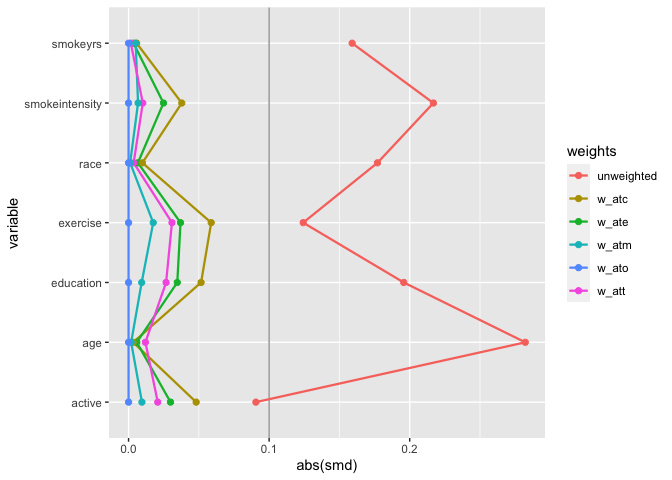
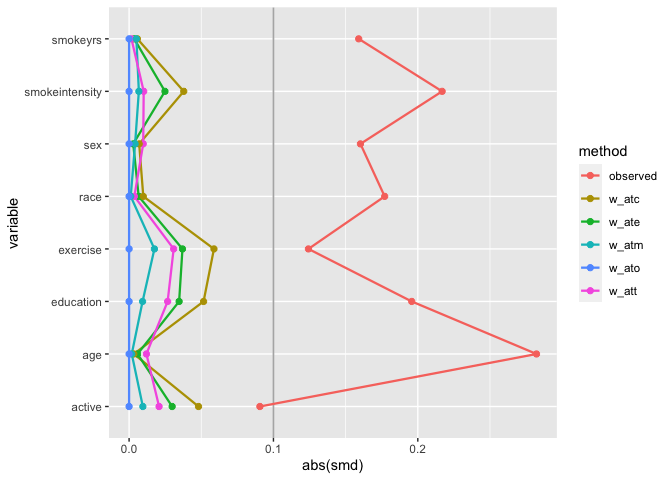
add better support for matching via tidysmd

diff --git a/README.md b/README.md
@@ -26,7 +26,7 @@ You can install the development version of halfmoon from
 devtools::install_github("malcolmbarrett/halfmoon")
 ```
 
-## Example
+## Example: Weighting
 
 halfmoon includes several techniques for assessing the balance created
 by propensity score weights.
@@ -79,11 +79,105 @@ ggplot(
   aes(
     x = abs(smd),
     y = variable,
-    group = weights,
-    color = weights
+    group = method,
+    color = method
   )
 ) +
   geom_love()
 ```
 
 <img src="man/figures/README-example-3.png" width="100%" />
+
+## Example: Matching
+
+halfmoon also has support for working with matched datasets. Consider
+these two objects from the
+[MatchIt](https://github.com/kosukeimai/MatchIt) documentation:
+
+``` r
+library(MatchIt)
+# Default: 1:1 NN PS matching w/o replacement
+m.out1 <- matchit(treat ~ age + educ + race + nodegree +
+                   married + re74 + re75, data = lalonde)
+
+# 1:1 NN Mahalanobis distance matching w/ replacement and
+# exact matching on married and race
+m.out2 <- matchit(treat ~ age + educ + race + nodegree +
+                   married + re74 + re75, data = lalonde,
+                   distance = "mahalanobis", replace = TRUE,
+                  exact = ~ married + race)
+```
+
+One option is to just look at the matched dataset with halfmoon:
+
+``` r
+matched_data <- get_matches(m.out1)
+
+match_smd <- tidy_smd(
+  matched_data,
+  c(age, educ, race, nodegree, married, re74, re75), 
+  .group = treat
+)
+
+love_plot(match_smd)
+```
+
+<img src="man/figures/README-unnamed-chunk-3-1.png" width="100%" />
+
+The downside here is that you can’t compare multiple matching strategies
+to the observed dataset; the label on the plot is also wrong. halfmoon
+comes with a helper function, `bind_matches()`, that creates a dataset
+more appropriate for this task:
+
+``` r
+matches <- bind_matches(lalonde, m.out1, m.out2)
+head(matches)
+#>      treat age educ   race married nodegree re74 re75       re78 m.out1 m.out2
+#> NSW1     1  37   11  black       1        1    0    0  9930.0460      1      1
+#> NSW2     1  22    9 hispan       0        1    0    0  3595.8940      1      1
+#> NSW3     1  30   12  black       0        0    0    0 24909.4500      1      1
+#> NSW4     1  27   11  black       0        1    0    0  7506.1460      1      1
+#> NSW5     1  33    8  black       0        1    0    0   289.7899      1      1
+#> NSW6     1  22    9  black       0        1    0    0  4056.4940      1      1
+```
+
+`matches` includes an binary variable for each `matchit` object which
+indicates if the row was included in the match or not. Since
+downweighting to 0 is equivalent to filtering the datasets to the
+matches, we can more easily compare multiple matched datasets with
+`.wts`:
+
+``` r
+many_matched_smds <- tidy_smd(
+  matches,
+  c(age, educ, race, nodegree, married, re74, re75), 
+  .group = treat, 
+  .wts = c(m.out1, m.out2)
+) 
+
+love_plot(many_matched_smds)
+```
+
+<img src="man/figures/README-unnamed-chunk-5-1.png" width="100%" />
+
+We can also extend the idea that matching indicators are weights to
+weighted mirrored histograms, giving us a good idea of the range of
+propensity scores that are being removed from the dataset.
+
+``` r
+# use the distance as the propensity score
+matches$ps <- m.out1$distance
+
+ggplot(matches, aes(ps)) +
+    geom_mirror_histogram(
+        aes(group = factor(treat)),
+        bins = 50
+    ) +
+    geom_mirror_histogram(
+        aes(fill = factor(treat), weight = m.out1),
+        bins = 50,
+        alpha = 0.5
+    ) + scale_y_continuous(labels = abs)
+```
+
+<img src="man/figures/README-unnamed-chunk-6-1.png" width="100%" />
